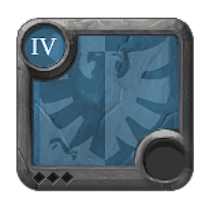
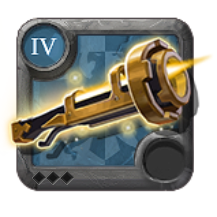
Add insight bags
And update new avalon images

Changed region(s): [[0.0276, 0.1382, 0.9677, 0.7465]]

diff --git a/components/ItemTable.vue b/components/ItemTable.vue
@@ -89,6 +89,7 @@
     "Materials": "Materials",
     "Artifact": "Artifact",
     "Sigils": "Royal Sigils",
+    "Solo map": "Solo map",
     "Fee": "Fee",
     "Journals": "Journals",
     "hours": "h",
@@ -99,6 +100,7 @@
     "Materials": "Материалы",
     "Artifact": "Артефакт",
     "Sigils": "Королевские знаки",
+    "Solo map": "Соло карта",
     "Fee": "Налог",
     "Journals": "Журналы",
     "hours": "ч",
@@ -380,6 +382,10 @@ export default {
         artefact = this.artefacts[`QUESTITEM_TOKEN_ROYAL_T${tier}`];
         artefactPrice = artefact.price * numberOfSigils;
         name = 'Sigils';
+      } else if (this.currentItemInfo.name.includes('INSIGHT')) {
+        artefact = this.artefacts[`T${tier}_RANDOM_DUNGEON_SOLO_TOKEN_1`];
+        artefactPrice = artefact.price;
+        name = 'Solo map';
       } else {
         artefact = this.artefacts[
           `T${tier}_ARTEFACT${this.currentItemInfo.name.slice(2)}`
@@ -444,7 +450,7 @@ export default {
         let craftFame =
           (fame * (subtier + 1) - 7.5 * subtier) * this.amountOfMaterials;
 
-        craftFame += !this.isObjectEmpty(this.artefacts) ? 500 : 0;
+        craftFame += !this.isArtefactItem || this.currentItemInfo.name.includes('INSIGHT') ? 0 : 500;
 
         const journalFame = 1200 * 2 ** (tier - 4);
         const journalName = `T${tier}_JOURNAL${this.currentItemInfo.root.slice(4)}`;
@@ -483,11 +489,16 @@ export default {
       const fee = this.settings.craftFee;
       const artefactLevel = this.currentItemInfo.artefactLevel;
       let itemValue = this.itemAndArtefactValues[`T${tier}.${subtier}`];
+      const isBagInsight = this.currentItemInfo.name.includes('INSIGHT');
 
-      if (artefactLevel.length != 0) {
+      if (artefactLevel.length != 0 && !isBagInsight) {
         itemValue += this.itemAndArtefactValues[`T${tier}_${artefactLevel}`];
+      } else if (isBagInsight) {
+        // Value of solo maps per unit of material
+        // Solo maps is not artifact but they are very similar in purpose
+        itemValue += [210, 280, 375, 525, 727,5][tier - 4];
       }
-
+      
       const feePrice = Math.floor(
         ((itemValue * this.amountOfMaterials) / 20) * fee
       );

diff --git a/components/Settings.vue b/components/Settings.vue
@@ -107,7 +107,7 @@
         </template>
       </select>
       <template v-if="isArtefactItem">
-        <p class="setting__city-header">{{ $t('cities.artefacts') }}</p>
+        <p class="setting__city-header">{{ artefactsCategory }}</p>
         <select 
           v-model="cities.artefacts" 
           class="city" 
@@ -153,6 +153,7 @@
       "resources": "Resources",
       "artefacts": "Artifacts",
       "sigils": "Royal sigils",
+      "soloMaps": "Solo maps",
       "journals": "Journals"
     }
   },
@@ -175,6 +176,7 @@
       "resources": "Материалы",
       "artefacts": "Артефакты",
       "sigils": "Королевские знаки",
+      "soloMaps": "Соло карты",
       "journals": "Журналы"
     }
   }
@@ -182,6 +184,8 @@
 </i18n>
 
 <script>
+import { mapState } from "vuex";
+
 export default {
   name: "Settings",
   data() {
@@ -246,7 +250,25 @@ export default {
      */
     isArtefactItem() {
       return this.$store.getters.isArtefactItem;
-    }
+    },
+
+    /**
+     * Choose one: artifacts, sigils or solo maps
+     */
+    artefactsCategory() {
+      const itemName = this.currentItemInfo.name;
+      const category = itemName.includes('ROYAL') ? 'cities.sigils' : 
+      itemName.includes('INSIGHT') ? 'cities.soloMaps' : 'cities.artefacts';
+
+      return this.$t(category);
+    },
+
+    /**
+     * Current item info
+     */
+    ...mapState({
+      currentItemInfo: (state) => state.tree.currentItemInfo,
+    }),
   },
   methods: {
     /**

diff --git a/store/utils.ts b/store/utils.ts
@@ -52,6 +52,14 @@ export function createStringOfAllArtefacts(itemName: string) {
     return allNames.slice(0, -1);
   }
 
+  if (itemName.includes('INSIGHT')) {
+    for (let tier = 4; tier <= 8; tier++) {
+      allNames = allNames + `T${tier}_RANDOM_DUNGEON_SOLO_TOKEN_1,`;
+    }
+
+    return allNames.slice(0, -1);
+  }
+
   for (let tier = 4; tier <= 8; tier++) {
     allNames = allNames + `T${tier}_ARTEFACT${itemName.slice(2)},`;
   }
@@ -131,7 +139,7 @@ export function isObjectEmpty(obj: object): boolean {
  * @param itemName - item name: T4_ARTEFACT_HEAD_CLOTH_HELL etc.
  */
 export function isArtefactItem(itemName: string): boolean {
-  const artefacts = ['UNDEAD', 'KEEPER', 'HELL', 'MORGANA', 'AVALON', 'ROYAL'];
+  const artefacts = ['UNDEAD', 'KEEPER', 'HELL', 'MORGANA', 'AVALON', 'ROYAL', "INSIGHT"];
 
   if (!itemName) {
     return false;

diff --git a/components/Row.vue b/components/Row.vue
@@ -147,11 +147,7 @@ export default {
       let currentItemIndex = 0;
       let firstArtefactItemIndex = 0;
 
-      for (
-        ;
-        firstArtefactItemIndex < this.items.length;
-        firstArtefactItemIndex++
-      ) {
+      for (; firstArtefactItemIndex < this.items.length; firstArtefactItemIndex++) {
         if (isArtefactItem(this.items[firstArtefactItemIndex].name)) {
           break;
         }
